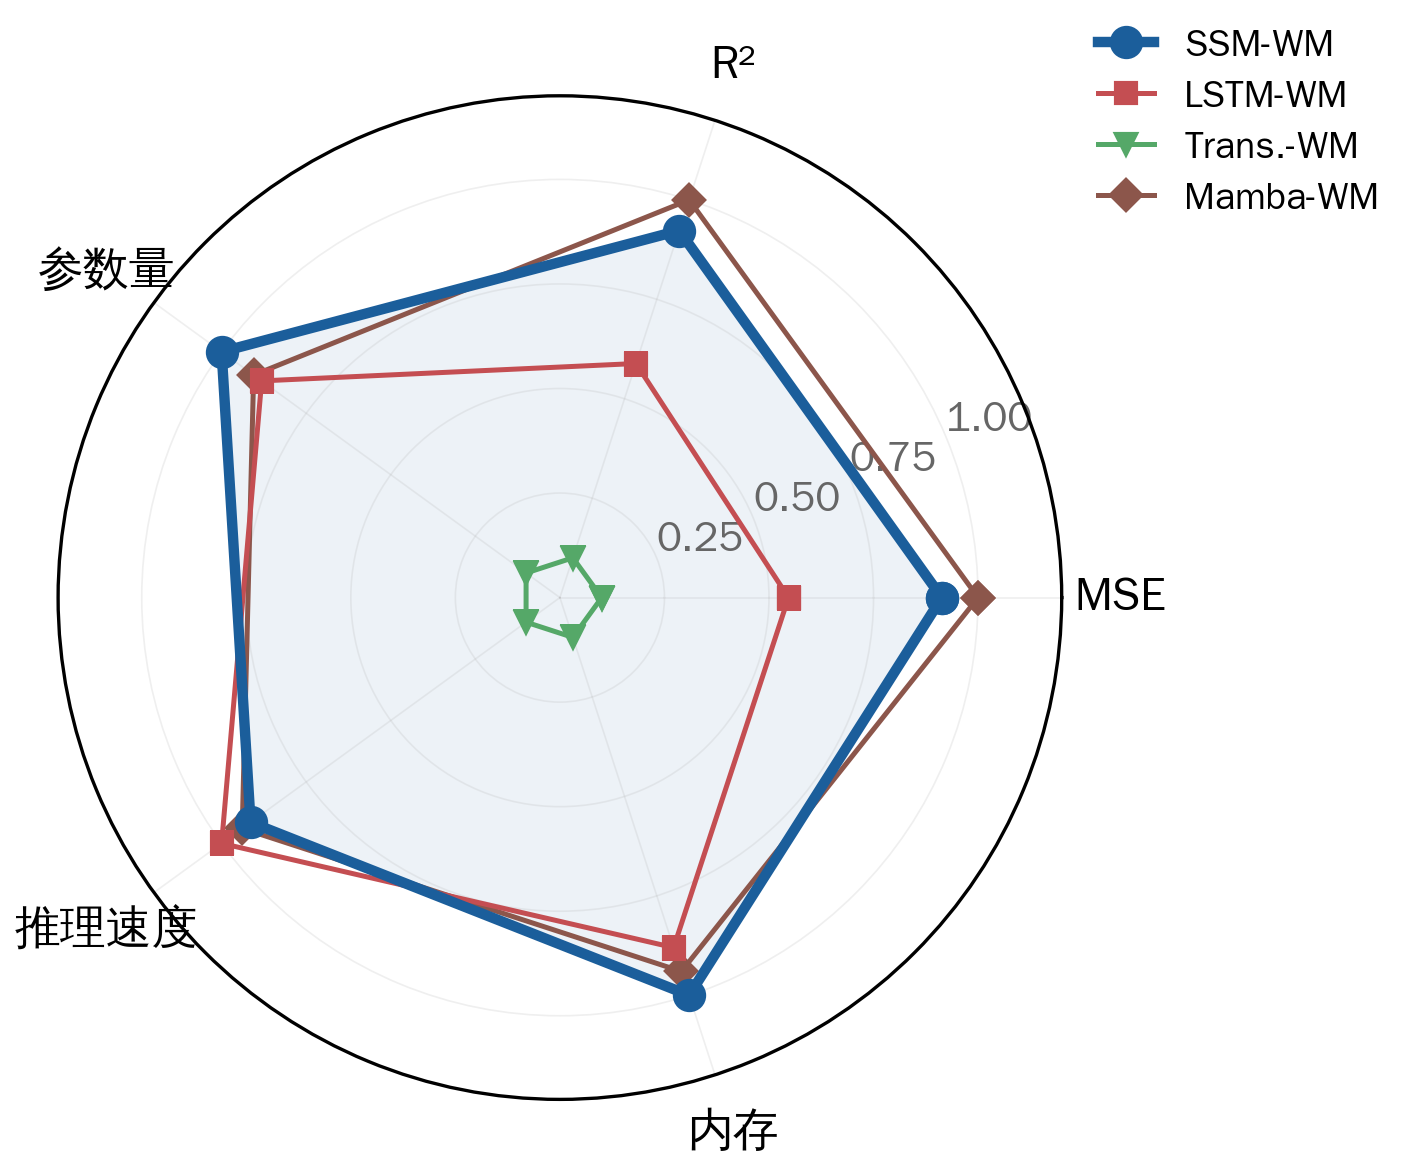
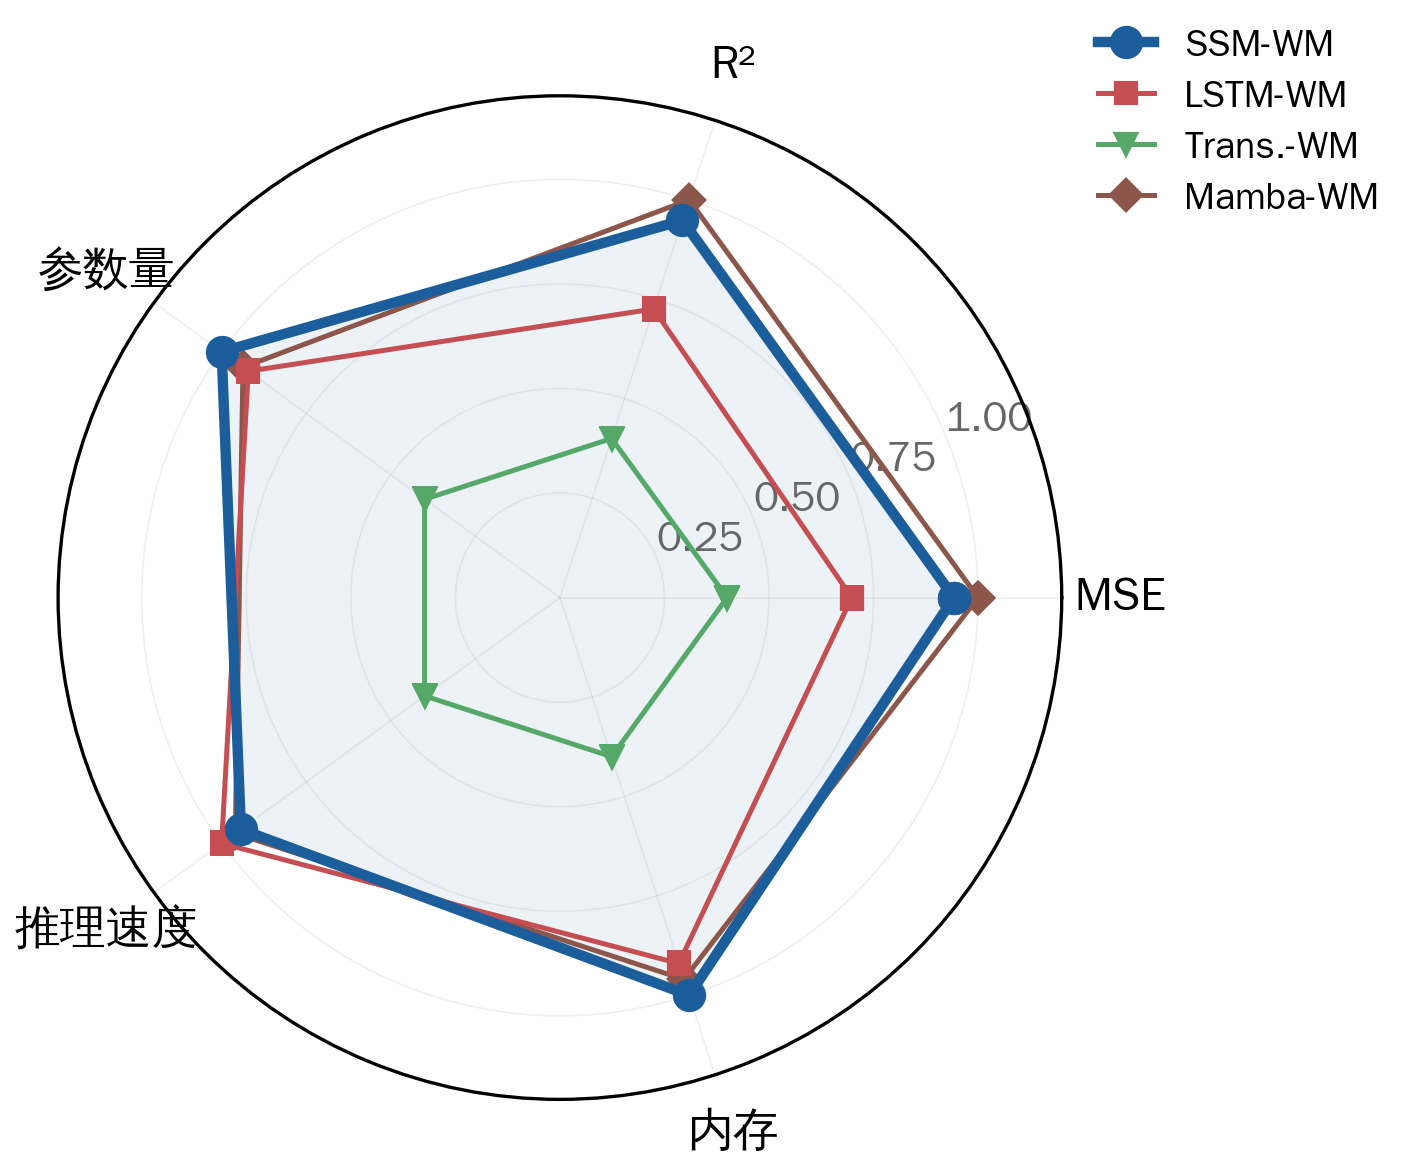
fix: 雷达图floor提高到0.40压缩差异

diff --git a/scripts/generate_figures_nature.py b/scripts/generate_figures_nature.py
@@ -280,7 +280,7 @@ def fig6():
     categories = ['MSE', 'R²', '参数量', '推理速度', '内存']
     N = len(categories)
 
-    def normalize(vals, lower_better=True, floor=0.10):
+    def normalize(vals, lower_better=True, floor=0.40):
         mn, mx = min(vals), max(vals)
         if lower_better:
             return [floor + (1 - floor) * (mx - v) / (mx - mn + 1e-8) for v in vals]